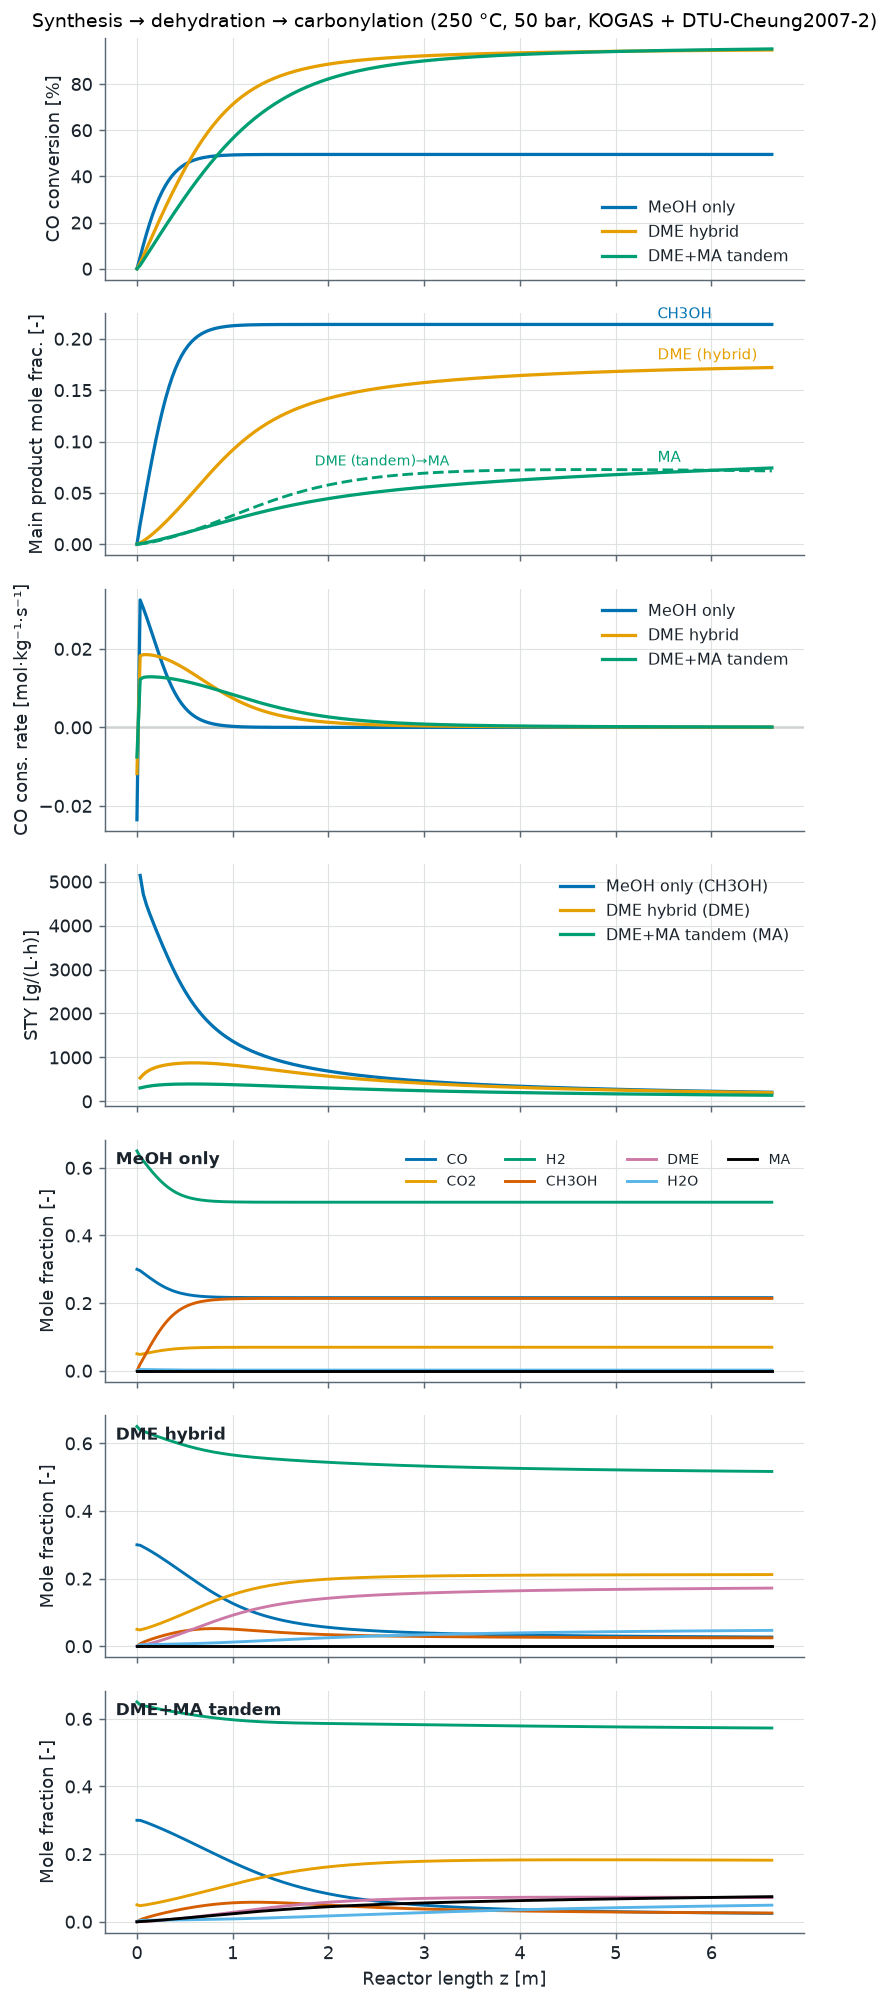
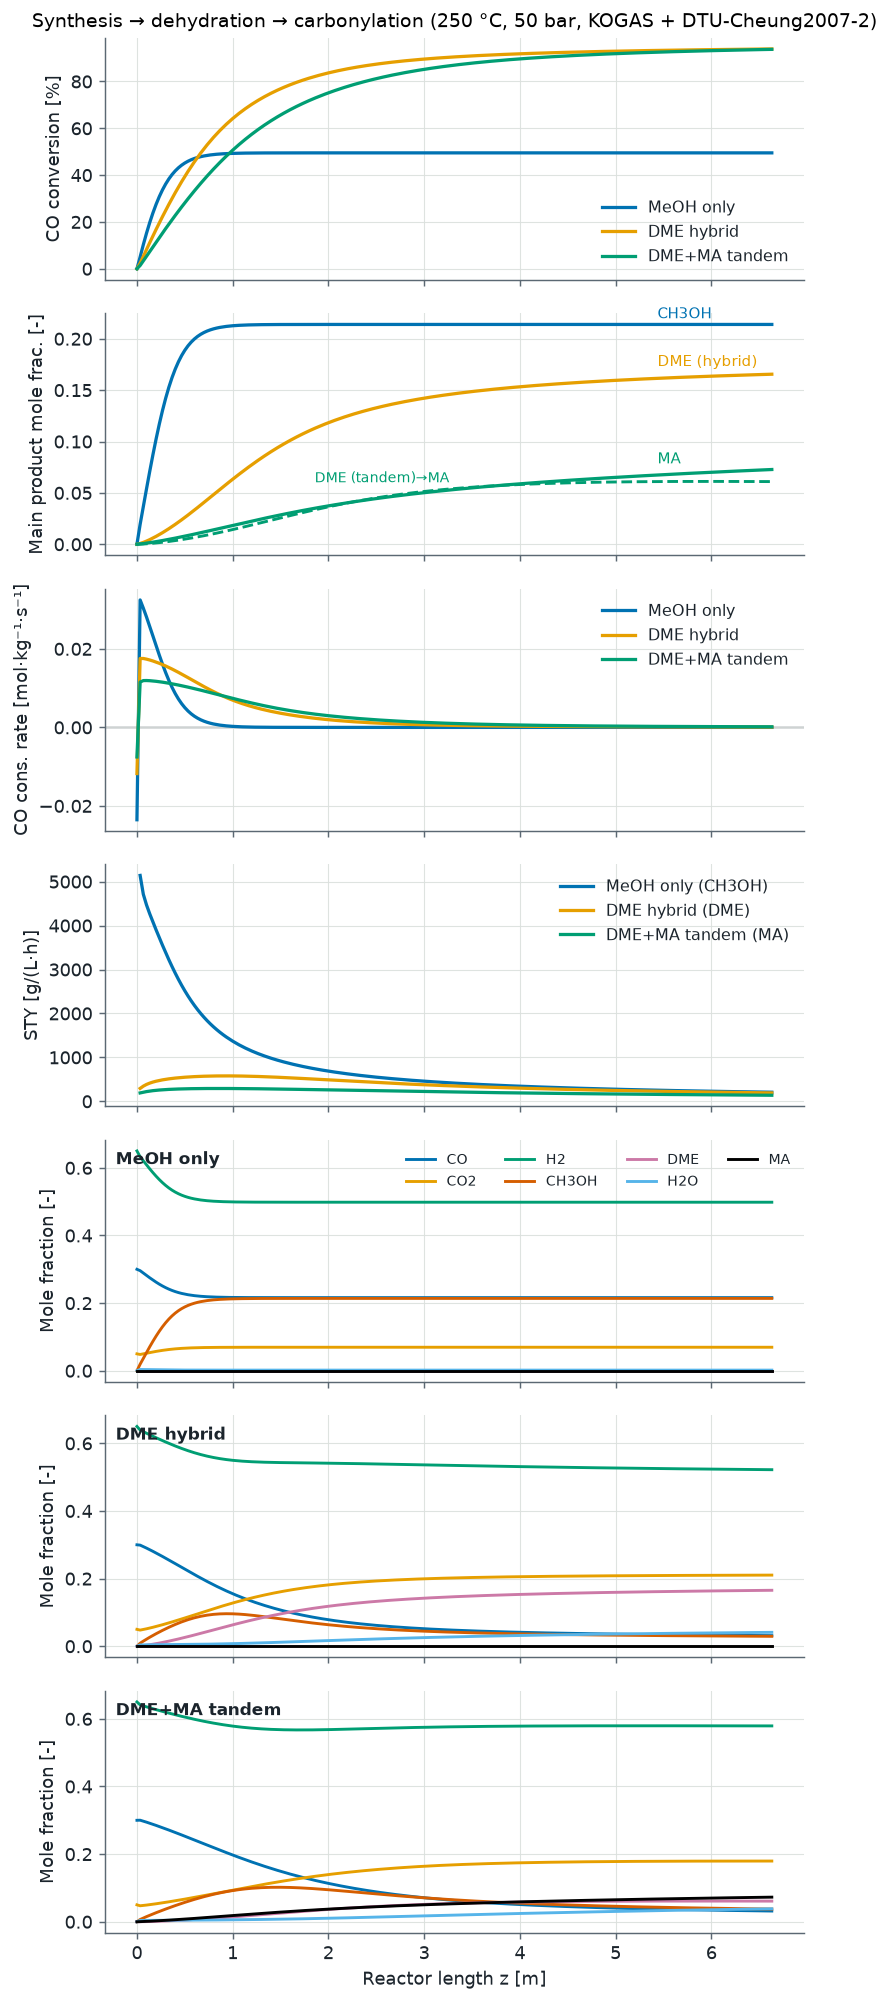
徹底監査: γ-アルミナ脱水の factor-2 バグ修正＋HTML実装可能性・帰属の精緻化
原典4報照合(MS/RWGS=Ng1999/VBF1996, カルボニル化=DTU2017/Cheung/Diemer&Luyben/Cheng,
γ-アルミナ脱水=BL1993/Ng, Ortega ZSM5)で式・パラメータは全て一致。ただし実バグ1件を検出:

- 【factor-2 バグ】rate_dehydration の KOGAS/BL(γ-アルミナ)分岐が BL/Ng eq(10)=
  「メタノール消失速度」(BL1993 Nomenclature明記)を無変換で返すが、network量論は
  {CH3OH:-2·rMD, DME:+rMD}=DME生成速度前提。→γ-アルミナ脱水が2倍過大だった。
  全sourceで÷2しDME生成基準に統一(ZSM5は元から/2で正しく不変)。影響=γ脱水を使う図9点
  (触媒比較のγ列: CH3OH抜け428→552増・DME/MA減。ZSM5列・タンデム図は不変)。
- ドキュメント精緻化: 平衡定数の帰属(Twigg→VBF1996/Graaf1986)、カルボニル化に酸点密度
  1.43mmol/g・pDME→0のゼロ除算回避・f_reg移植項・DFT ΔHの近似性を明記、k_eq3既定値の警告。
- 28 tests pass(反応次数テスト含む)。

diff --git a/references/tandem_sty_stack_zsm5_reactions.html b/references/tandem_sty_stack_zsm5_reactions.html
@@ -122,7 +122,7 @@
   <div class="rate">r<sub>RWGS</sub> = k₅·p<sub>CO₂</sub>·[ 1 − K<sub>eq2</sub>·(p<sub>CO</sub>·p<sub>H₂O</sub>)/(p<sub>CO₂</sub>·p<sub>H₂</sub>) ] / DEN &nbsp;×&nbsp;(1000/3600)</div>
   <div class="lbl">パラメータ</div>
   <table>
-    <tr><th>定数</th><th>A</th><th>B [J/mol]</th><th>値@250℃ (native)</th></tr>
+    <tr><th>定数</th><th>A</th><th>B [J/mol]</th><th>A·exp(B/RT)@250℃<br>(×1000/3600 前)</th></tr>
     <tr><td class="mono">k₅</td><td class="mono">1.09×10¹⁰</td><td class="mono">−94765</td><td class="mono">3.76</td></tr>
   </table>
   <div class="src"><b>出典:</b> 同上（KOGAS = Ng 1999 / VBF 1996）。RWGS は正反応、駆動力に K<sub>eq2</sub>。<span class="mono">vbf_kogas.rate_ms_rwgs</span></div>
@@ -166,8 +166,8 @@
     <tr><td class="mono">K₂</td><td class="mono">4.65 bar⁻¹</td><td class="mono">ΔH₂ = −97（DTU DFT）</td><td class="mono">0.061</td><td>DTU DFT</td></tr>
     <tr><td class="mono">K₃</td><td class="mono">1.76（無次元）</td><td class="mono">固定（tier 2 では温度非依存）</td><td class="mono">1.76</td><td>DTU</td></tr>
   </table>
-  <div class="note"><b>DTU-Cheung2007-2</b> = DTU 式 ＋ k₁ 温度依存（E<sub>a</sub>=69.6, Cheung）＋ K₂ 温度依存（van't Hoff ΔH₂, DTU DFT）。K₃ は固定（温度依存を入れるのは tier 3）。DTU 系は <b>per mol Al</b> のため、reactor 側で <b>×酸点密度</b>（Cheung2007/Cheng2017 は既に per kg）。</div>
-  <div class="src"><b>出典:</b> 基準式・K₂/K₃ = <b>DTU (mordenite carbonylation) 2017</b>, Catal. Sci. Technol.（Table 4, 438 K, per mol Al）。k₁ の温度依存 E<sub>a</sub> = <b>Cheung 2007</b>（Iglesia/BP）→ 整形形は <b>Diemer &amp; Luyben 2010</b>, IECR 49, 12224（査読, eq6-7, DOI 10.1021/ie101583j）。K₂ の van't Hoff ΔH₂ = DTU 自身の DFT。速度則(CO 一次・DME 零次・律速=8-MR 側ポケット Brønsted 酸点への CO 挿入)は Cheung 2006/07・Bhan 2007 で確立。<span class="mono">carbonylation.rate(model="DTU-Cheung2007-2")</span></div>
+  <div class="note"><b>DTU-Cheung2007-2</b> = DTU 式 ＋ k₁ 温度依存（E<sub>a</sub>=69.6, Cheung）＋ K₂ 温度依存（van't Hoff ΔH₂）＋ K₃ 固定（温度依存は tier 3）。<b>実装上の注意:</b> ① DTU 系は <b>per mol Al</b> なので reactor 側で <b>×酸点密度</b>＝<b>1.43 mmol/g（=1.43 mol Al/kg, CBV21A モルデナイト）</b>を掛ける（Cheung2007/Cheng2017 は既に per kg）。② 第3項 K₃·p<sub>MA</sub>/p<sub>DME</sub> は <b>p<sub>DME</sub>→0 でゼロ除算</b>になるため、実装では p<sub>DME</sub>=0 のとき第3項を 0 とする。③ f<sub>reg</sub> は DTU 公表式にはない移植項（Diemer&amp;Luyben の DME 正則化）で、検証域 p<sub>DME</sub>≳10⁻⁴ bar では ≈1 で速度不変。</div>
+  <div class="src"><b>出典:</b> 基準式・K₂/K₃ = <b>DTU (mordenite carbonylation) 2017</b>, Catal. Sci. Technol.（Table 4, 438 K, per mol Al）。k₁ の温度依存 E<sub>a</sub> = <b>Cheung 2007</b>（Iglesia/BP）→ 整形形は <b>Diemer &amp; Luyben 2010</b>, IECR 49, 12224（査読, eq6-7, DOI 10.1021/ie101583j）。K₂ の van't Hoff ΔH₂=−97 kJ/mol は <b>DTU の DFT 吸着エネルギー（−1.01 eV）由来の近似</b>、<b>K₃ の ΔH₃=−8 kJ/mol は論文の直接裏付けなしの見積り</b>（tier 2 では K₃ 固定なので本 example の結果には無影響）。速度則(CO 一次・DME 零次・律速=8-MR 側ポケット Brønsted 酸点への CO 挿入)は Cheung 2006/07・Bhan 2007 で確立。<span class="mono">carbonylation.rate(model="DTU-Cheung2007-2")</span></div>
 </div>
 
 <!-- ============ EQUILIBRIA ============ -->
@@ -175,7 +175,7 @@
 <div class="rx">
   <table>
     <tr><th>反応</th><th>相関</th><th>値@250℃</th><th>出典</th></tr>
-    <tr><td>MS &nbsp;<span class="mono">K<sub>eq1</sub></span></td><td class="mono">10^(3066/T − 10.592)</td><td class="mono">1.86×10⁻⁵</td><td>KOGAS 2008 = Twigg(1986)/Stull(1969)</td></tr>
+    <tr><td>MS &nbsp;<span class="mono">K<sub>eq1</sub></span></td><td class="mono">10^(3066/T − 10.592)</td><td class="mono">1.86×10⁻⁵</td><td>VBF1996/Graaf1986（KOGAS は Twigg 引用のみ・数値非掲載）</td></tr>
     <tr><td>RWGS &nbsp;<span class="mono">K<sub>eq2</sub></span></td><td class="mono">10^(2073/T − 2.029)</td><td class="mono">85.8</td><td>同上（log₁₀(1/K<sub>eq2</sub>)=−2073/T+2.029）</td></tr>
     <tr><td>MD &nbsp;<span class="mono">K<sub>eq3</sub></span> <code>thermo</code></td><td class="mono">10^(1121/T − 0.888)</td><td class="mono">18.0</td><td>Cantera(NASA 熱力学)由来 fit（BL とほぼ一致）</td></tr>
   </table>

diff --git a/references/rate_equations.html b/references/rate_equations.html
@@ -456,7 +456,7 @@
           </mfrac>
         </math>
       </div>
-      <p class="msub-note">この式のみ濃度 C [kmol·m⁻³] 基準（他は分圧 p [bar]）。速度の native 単位は KOGAS(=Ng) が mol·g⁻¹·h⁻¹、Bercič–Levec 1993（原著 p6）が kmol·kg⁻¹·h⁻¹ で、<b>どちらも ×1000/3600 で mol·kg⁻¹·s⁻¹ に換算</b>（§2②）。</p>
+      <p class="msub-note">この式のみ濃度 C [kmol·m⁻³] 基準（他は分圧 p [bar]）。速度の native 単位は KOGAS(=Ng) が mol·g⁻¹·h⁻¹、Bercič–Levec 1993（原著 p6）が kmol·kg⁻¹·h⁻¹ で、<b>どちらも ×1000/3600 で mol·kg⁻¹·s⁻¹ に換算</b>（§2②）。<b>⚠ 基準:</b> 上式は BL/Ng の<b>メタノール消失速度</b>（BL1993: rM=rate of methanol disappearance）。<code>rate_dehydration()</code> は反応器の量論 {CH3OH:−2·r<sub>MD</sub>, DME:+r<sub>MD</sub>} に合わせ、この値を <b>÷2 して DME 生成速度 r<sub>MD</sub></b> を返す（KOGAS/BL/ZSM5 全 source 共通）。</p>
     </div>
 
     <div class="tbl-scroll">

diff --git a/src/reaction_rate/vbf_kogas.py b/src/reaction_rate/vbf_kogas.py
@@ -13,6 +13,8 @@
        原論文は √(K3·pH2) と印字するが、それだと B が半分になり VBF と不整合。
   r_MD   = k6·K_CH3OH²·[C_CH3OH² − C_H2O·C_DME/Keq3] / (1 + 2√(K_CH3OH·C_CH3OH) + K_H2O·C_H2O)⁴
     ⚠ 濃度 C は kmol/m³（state.concentrations の既定）。速度[mol·kg⁻¹·s⁻¹]。
+    ⚠ この式は BL/Ng の「メタノール消失速度」。rate_dehydration() は network の量論に合わせ
+       ÷2 して DME 生成速度(r_MD)を返す（KOGAS/BL/ZSM5 全 source 共通の基準）。
 
 出所: KOGAS(2008/2021) の値は Ng, Chadwick & Toseland 1999 Table 1 と完全一致
       （VBF の B(1–5) ＋ Bercič–Levec の脱水を Ng が自データにフィット）。
@@ -163,9 +165,13 @@ def rate_ms_rwgs(state, model: str = "KOGAS") -> dict[str, float]:
 
 
 def rate_dehydration(state, source: str = "KOGAS", k_eq3: str = "KOGAS") -> float:
-    """r_MD [mol·kg⁻¹·s⁻¹]。source=速度定数('KOGAS'/'BercicLevec1993'=γ-アルミナLHHW,
+    """r_MD [mol·kg⁻¹·s⁻¹] = **DME 生成速度**（＝反応進行度基準, 2CH3OH→DME+H2O）。
+    ⚠ 原著の速度則はいずれも「メタノール消失速度」基準（BL1993: rM=rate of methanol
+    disappearance / Ortega: r_MeOH）なので、network の量論 {CH3OH:-2·rMD, DME:+rMD} に
+    合わせて **全 source で ÷2 して DME 生成速度に統一** する（KOGAS/BL/ZSM5 とも）。
+    source=速度定数('KOGAS'/'BercicLevec1993'=γ-アルミナLHHW,
     'ZSM5'=ZSM-5厳密LHHW[Ortega 2018・分圧bar基準・飽和/水阻害])、
-    k_eq3=平衡定数('KOGAS'/'BL'/'thermo')。濃度[kmol/m³]基準（ZSM5 のみ分圧[bar]基準）。"""
+    k_eq3=平衡定数('KOGAS'(過大・非推奨)/'BL'/'thermo'(推奨))。濃度[kmol/m³]基準（ZSM5 のみ分圧[bar]基準）。"""
     T = state.T
     Keq3 = K_eq3(T, k_eq3)   # Δn=0 なので Kp=Kc（分圧/濃度どちらの駆動力にも共用可）
 
@@ -194,4 +200,5 @@ def rate_dehydration(state, source: str = "KOGAS", k_eq3: str = "KOGAS") -> floa
     K_W = _arrhenius(par["K_H2O"], T)
     num = k6 * K_M ** 2 * (C_M ** 2 - C_W * C_D / Keq3)
     den = (1.0 + 2.0 * (K_M * C_M) ** 0.5 + K_W * C_W) ** 4
-    return (num / den) * _MD_UNIT_TO_MOL_KG_S[source]   # 源の速度単位 → mol·kg⁻¹·s⁻¹
+    r_meoh = (num / den) * _MD_UNIT_TO_MOL_KG_S[source]   # BL/Ng eq(10)=メタノール消失速度 → mol·kg⁻¹·s⁻¹
+    return r_meoh / 2.0                                   # r_MeOH → r_MD（DME 生成基準に統一）
